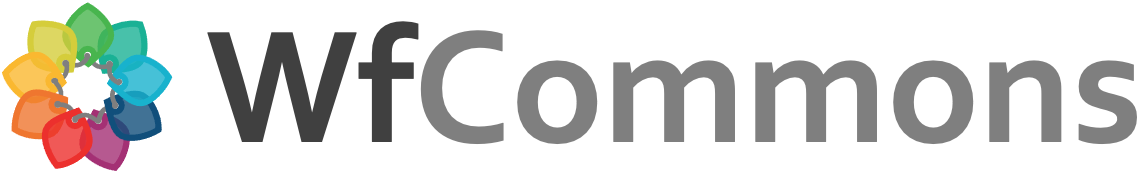
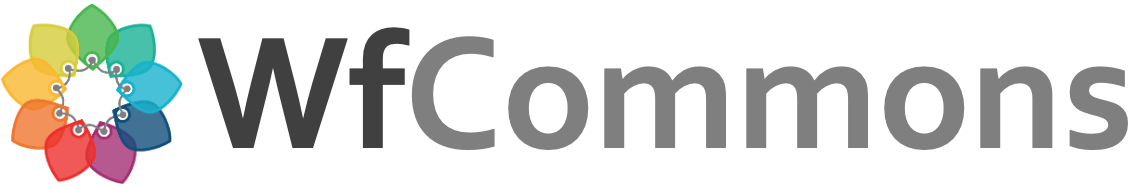
migrating repository

diff --git a/docs/source/index.rst b/docs/source/index.rst
@@ -1,5 +1,5 @@
-WfCommons
-***********
+.. figure::  images/wfcommons-horizontal.png
+   :scale:   35 %
 
 |pypi-badge| |build-badge| |license-badge|
 
